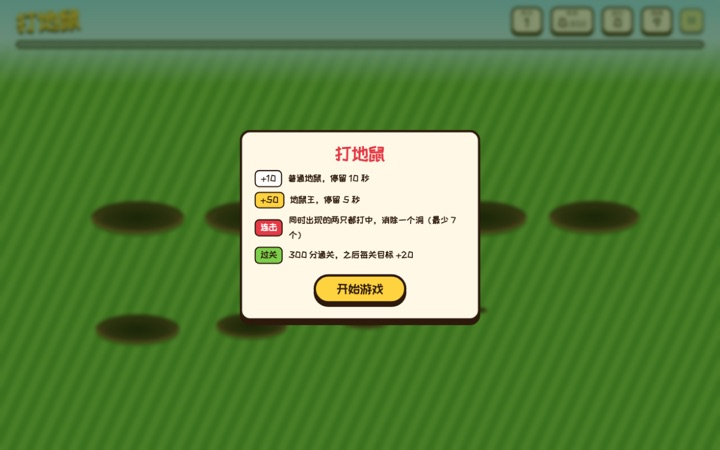
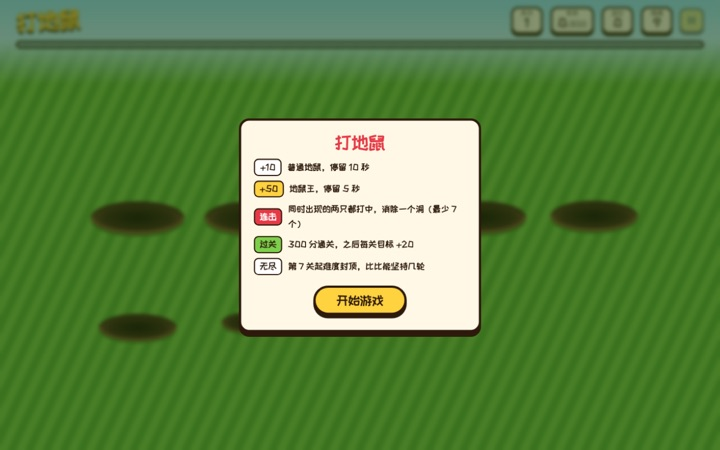
fix: dadishu

Changed region(s): [[0.275, 0.2489, 0.6722, 0.7778], [0.2139, 0.7467, 0.2444, 0.7778], [0.1222, 0.7156, 0.1528, 0.7467]]

diff --git a/games/dadishu/ui.js b/games/dadishu/ui.js
@@ -6,7 +6,6 @@
   const overlay = $('overlay');
   const holeEls = new Map();
   const WHACK_MS = 260;
-  const GONE_MS = 380;
 
   const game = Whack.createGame({ onEvent: (type, data) => handlers[type] && handlers[type](data) });
 
@@ -21,8 +20,9 @@
     return best;
   }
 
+  // Count every grid cell, including removed holes, so the board never reflows mid-level.
   function layout() {
-    const n = holeEls.size;
+    const n = board.children.length;
     if (!n) return;
     const cols = bestCols(n);
     board.style.setProperty('--cols', cols);
@@ -38,6 +38,7 @@
       el.classList.add('enter');
       el.style.animationDelay = `${i * 30}ms`;
       el.setAttribute('aria-label', `地洞 ${i + 1}`);
+      el.dataset.label = `地洞 ${i + 1}`;
       holeEls.set(id, el);
       board.append(el);
     });
@@ -62,7 +63,8 @@
 
   function renderHud() {
     const s = game.state;
-    $('level').textContent = s.level;
+    const cfg = Whack.levelConfig(s.level || 1);
+    $('level').textContent = cfg.endless ? `无尽${cfg.round}` : s.level;
     $('score').textContent = s.score;
     $('target').textContent = s.target;
     $('total').textContent = s.total;
@@ -74,11 +76,14 @@
 
   function lowerMole(el) {
     el.classList.remove('up', 'king', 'whacked');
-    el.setAttribute('aria-label', '地洞');
+    el.setAttribute('aria-label', el.dataset.label);
   }
 
   const handlers = {
-    level() { buildBoard(game.state.holes); },
+    level({ level }) {
+      buildBoard(game.state.holes);
+      if (level === Whack.ENDLESS_FROM) toast('进入无尽模式');
+    },
     spawn(m) {
       const el = holeEls.get(m.holeId);
       el.style.setProperty('--stay', `${m.expiresAt - m.bornAt}ms`);
@@ -103,17 +108,22 @@
       toast('连击！消除一个洞');
       const el = holeEls.get(holeId);
       el.classList.add('gone');
+      el.setAttribute('aria-hidden', 'true');
+      el.tabIndex = -1;
       holeEls.delete(holeId);
-      setTimeout(() => { el.remove(); layout(); }, GONE_MS);
       renderHud();
     },
     clear({ level, score, total }) {
       Sfx.clear();
       holeEls.forEach((el) => { if (!el.classList.contains('whacked')) lowerMole(el); });
+      const cur = Whack.levelConfig(level);
       const next = Whack.levelConfig(level + 1);
-      showOverlay(`第 ${level} 关通过`,
-        `<div class="big">${score} 分</div>总分 ${total}<br>下一关：${next.holes} 个洞，目标 ${next.target} 分`,
-        '下一关', () => game.nextLevel(performance.now()));
+      const title = cur.endless ? `无尽第 ${cur.round} 轮通过` : `第 ${level} 关通过`;
+      const nextText = next.endless
+        ? `无尽第 ${next.round} 轮：难度已满，目标 ${next.target} 分`
+        : `下一关：${next.holes} 个洞，目标 ${next.target} 分`;
+      showOverlay(title, `<div class="big">${score} 分</div>总分 ${total}<br>${nextText}`,
+        next.endless && !cur.endless ? '进入无尽模式' : '下一关', () => game.nextLevel(performance.now()));
       $('pause').disabled = true;
     },
   };

diff --git a/games/dadishu/game.js b/games/dadishu/game.js
@@ -8,11 +8,15 @@
   const KING_CHANCE = 0.12;
   const SPAWN_DELAY = [350, 1100];
   const FIRST_SPAWN_DELAY = 600;
+  // Holes and stay times hit their caps here; later levels only raise the target.
+  const ENDLESS_FROM = 7;
 
   function levelConfig(level) {
     const n = level - 1;
     return {
       level,
+      endless: level >= ENDLESS_FROM,
+      round: Math.max(0, level - ENDLESS_FROM + 1),
       holes: Math.min(9 + n * 3, MAX_HOLES),
       stay: {
         normal: Math.max(10000 - n * 1500, 2000),
@@ -137,7 +141,7 @@
     };
   }
 
-  const api = { createGame, levelConfig, MAX_MOLES, MIN_HOLES, SCORE };
+  const api = { createGame, levelConfig, MAX_MOLES, MIN_HOLES, SCORE, ENDLESS_FROM };
   if (typeof module !== 'undefined' && module.exports) module.exports = api;
   else root.Whack = api;
 })(typeof window !== 'undefined' ? window : globalThis);

diff --git a/games/dadishu/game.test.js b/games/dadishu/game.test.js
@@ -36,6 +36,17 @@ test('later levels add holes, shorten stay, raise target by 20', () => {
   assert.equal(levelConfig(3).target, 340);
 });
 
+test('endless mode starts at level 7 where holes and stay times are capped', () => {
+  assert.equal(levelConfig(6).endless, false);
+  const [l7, l9] = [levelConfig(7), levelConfig(9)];
+  assert.equal(l7.endless, true);
+  assert.equal(l7.round, 1);
+  assert.equal(l9.round, 3);
+  assert.equal(l9.holes, l7.holes);
+  assert.deepEqual(l9.stay, l7.stay);
+  assert.equal(l9.target, l7.target + 40);
+});
+
 test('never more than two moles at once', () => {
   const { g } = setup();
   for (let t = 0; t < 9000; t += 100) g.tick(t);

diff --git a/games/dadishu/index.html b/games/dadishu/index.html
@@ -43,6 +43,7 @@
           <li><span class="chip gold">+50</span>地鼠王，停留 5 秒</li>
           <li><span class="chip red">连击</span>同时出现的两只都打中，消除一个洞（最少 7 个）</li>
           <li><span class="chip green">过关</span>300 分通关，之后每关目标 +20</li>
+          <li><span class="chip">无尽</span>第 7 关起难度封顶，比比能坚持几轮</li>
         </ul>
       </div>
       <button id="ov-btn" class="btn" type="button">开始游戏</button>
